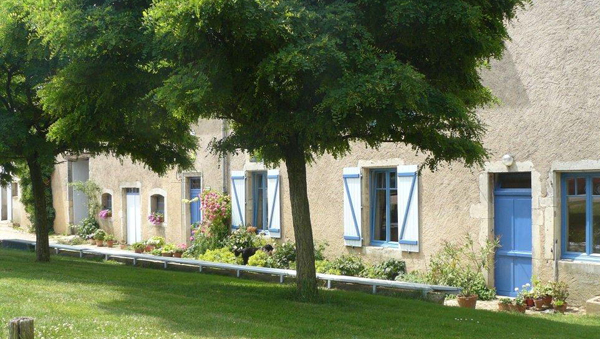
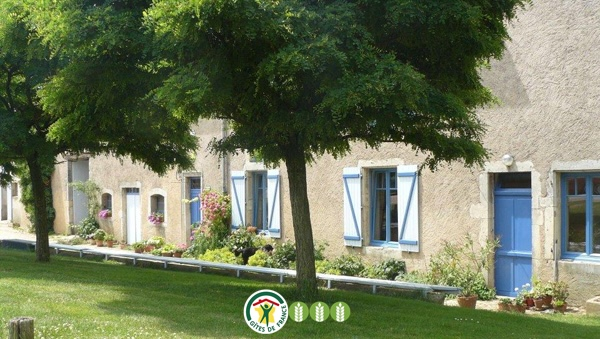
icone gite + couleur claire

Changed region(s): [[0.39, 0.8555, 0.6, 1.0]]

diff --git a/index.html b/index.html
@@ -101,7 +101,7 @@
 </div>
 <main class="layout-container">
 <section class="relative h-[85vh] w-full flex items-center justify-center overflow-hidden">
-<div class="absolute inset-0 bg-cover bg-center transition-transform duration-700 hover:scale-105" style="background-image: linear-gradient(rgba(0, 0, 0, 0.3), rgba(0, 0, 0, 0.5)), url(&quot;images/slide_cadre_devant1.jpg&quot;);">
+<div class="absolute inset-0 bg-cover bg-center transition-transform duration-700 hover:scale-105" style="background-image:  url(&quot;images/slide_cadre_devant1 - copie.png&quot;);">
 </div>
 <div class="relative z-10 text-center text-white px-4 max-w-4xl">
 <h2 class="text-lg md:text-xl font-light italic mb-4 tracking-widest uppercase">Une ferme rénovée en Lorraine</h2>
